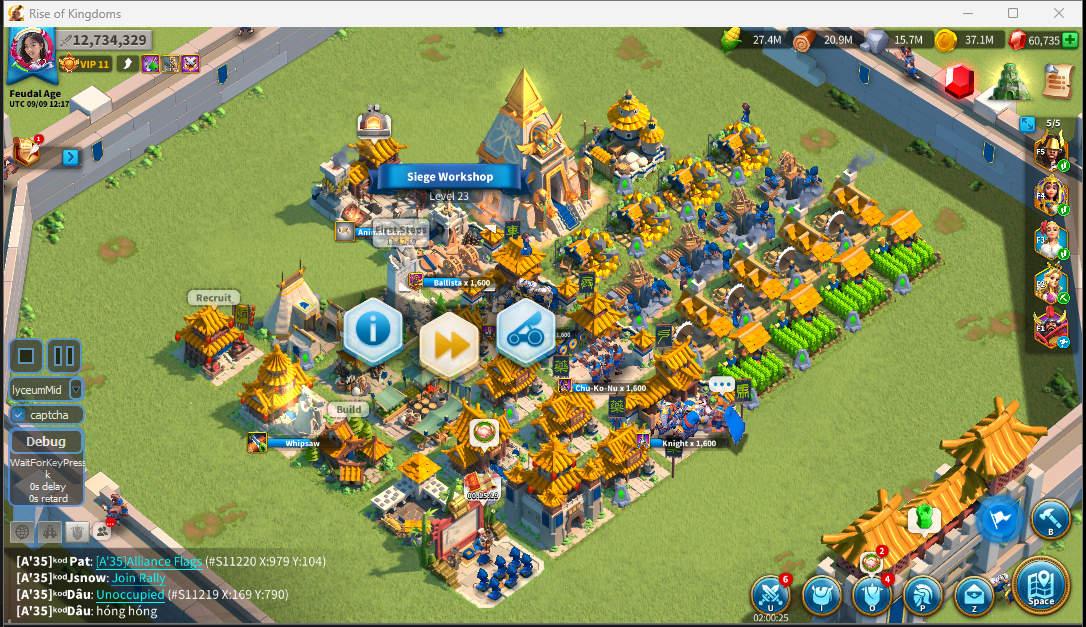
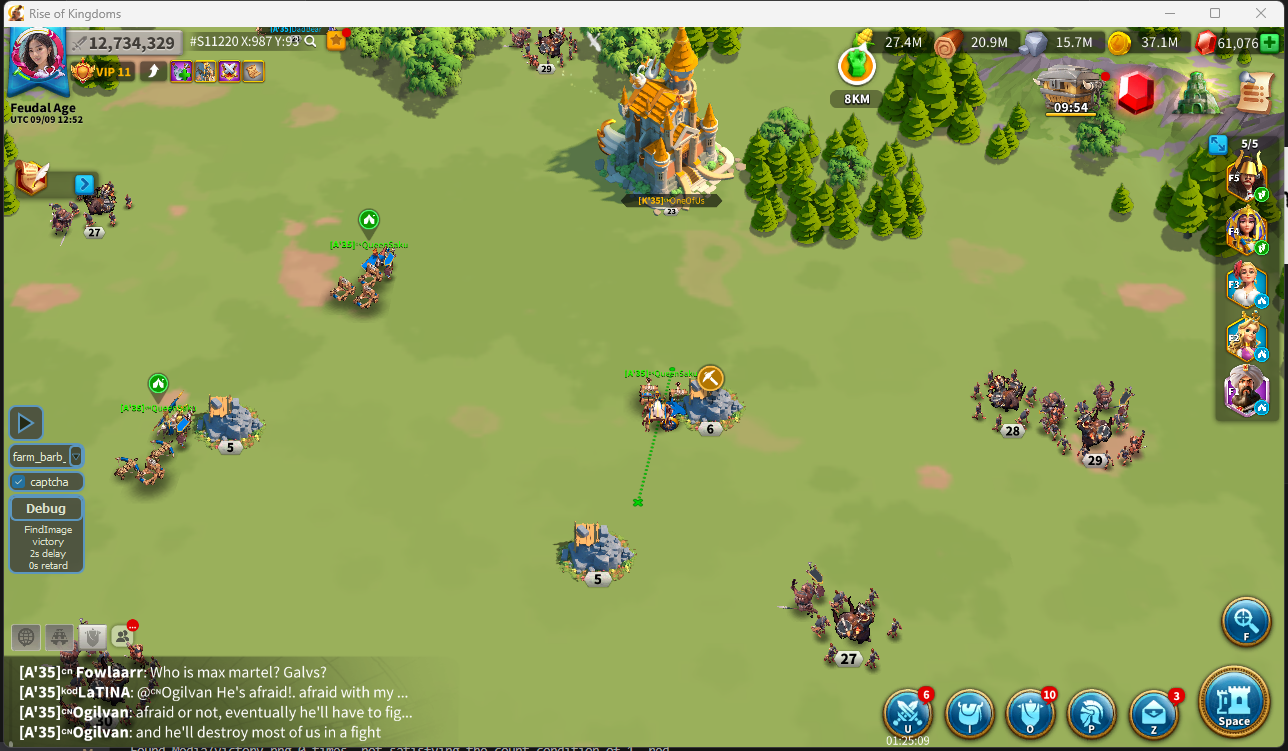
farmbarb with all queues

diff --git a/Classes/action_sets.py b/Classes/action_sets.py
@@ -109,6 +109,30 @@ class ActionSets:
         machine.set_initial_state("cityview")
         return machine
     
+    def farm_barb_all (self):
+        machine = self.create_machine()
+        machine.add_state("restart", PressKeyAction('escape'), "cityview")
+        machine.add_state("cityview", PressKeyAction('space',delay=.3), "birdview","cityview")
+        machine.add_state("birdview", PressKeyAction('f',delay=.3), "barbland","cityview")
+        machine.add_state("barbland", FindAndClickImageAction('Media/barbland.png',delay=.3), "searchaction","restart")
+        machine.add_state("searchaction", FindAndClickImageAction('Media/searchaction.png'), "arrow","restart")
+        machine.add_state("arrow", FindAndClickImageAction('Media/arrow.png',delay=1.5, offset_y=105), "attackaction","restart")
+        machine.add_state("attackaction", FindAndClickImageAction('Media/attackaction.png',delay=.3), "lohar","restart")
+        machine.add_state("lohar", ManualClickAction(96,80), "smallmarchaction","newtroopaction")
+        
+        machine.add_state("newtroopaction", FindAndClickImageAction('Media/newtroopaction.png',delay=.3), "marchaction","restart")
+        machine.add_state("marchaction", FindAndClickImageAction('Media/marchaction.png'), "victory","restart")
+
+        #machine.add_state("lohar", ManualClickAction(96,80), "smallmarchaction","newtroopaction")
+        
+        #machine.add_state("lohar", FindAndClickImageAction('Media/lohar.png'), "smallmarchaction","newtroopaction")
+        #machine.add_state("newtroopaction", FindAndClickImageAction('Media/newtroopaction.png'), "marchaction","newtroopaction")
+        #machine.add_state("marchaction", FindAndClickImageAction('Media/marchaction.png'), "victory","marchaction")
+        machine.add_state("smallmarchaction", FindAndClickImageAction('Media/smallmarchaction.png',delay=.5), "victory","restart")
+        machine.add_state("victory", FindImageAction('Media/victory.png', delay=2), "birdview","victory")
+        machine.set_initial_state("cityview")
+        return machine
+    
     def train_troops (self):
         machine = self.create_machine()
         machine.add_state("restart", PressKeyAction('escape'), "stable")

diff --git a/Classes/UI.py b/Classes/UI.py
@@ -10,7 +10,7 @@ from global_vars import GlobalVars, GLOBAL_VARS
 import threading
 
 class UI(QtWidgets.QWidget):
-    def __init__(self, window_title, delay=0):
+    def __init__(self, window_title, delay=1):
         super().__init__()
         
 
@@ -155,7 +155,7 @@ class UI(QtWidgets.QWidget):
         self.action_set_combo_box.setStyleSheet("""
             color: #fff;
         """)
-        self.action_set_names = ["loharjr","farm_rss_new","farm_rss","farm_food","farm_wood","farm_stone","farm_gold", "farm_barb", "lyceum", "lyceumMid", "train_troops"]
+        self.action_set_names = ["loharjr","farm_rss_new","farm_rss","farm_food","farm_wood","farm_stone","farm_gold", "farm_barb","farm_barb_all", "lyceum", "lyceumMid", "train_troops"]
         self.action_set_combo_box.addItems(self.action_set_names)
 
         # Checkbutton for captcha
